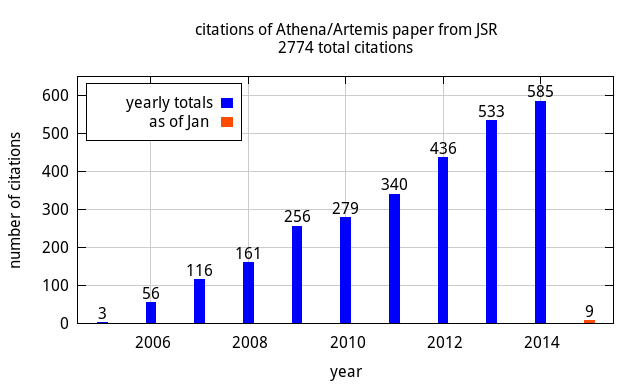
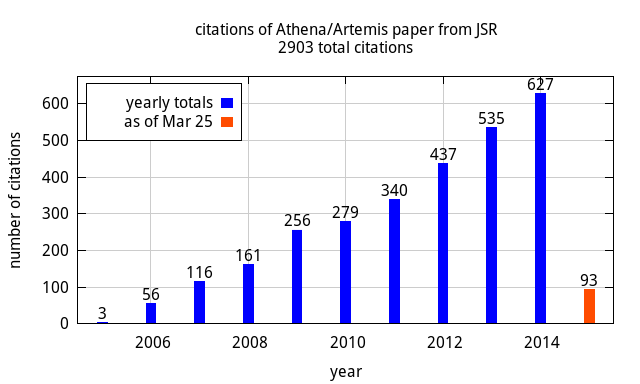
update bib and citations

diff --git a/cv.tex b/cv.tex
@@ -133,8 +133,10 @@
   training materials.  Several times each year, I teach XAS training
   courses at synchrotrons and other institutions around the
   world. \newline{} The publication introducing the software has over
-  2540 citations as of August, 2014, making it the highest cited
+  2900 citations as of March, 2015, making it the highest cited
   article in the Journal of Synchrotron Radiation.}
+%% The paper has an "h-factor" of 56.  That is, it has 56 citations
+%% that have themselves been cited over 56 times.
 
 \cvline{Inform XAS analysis using local structure theory}%
 {Local structural theories -- molecular dynamics, Monte Carlo,
